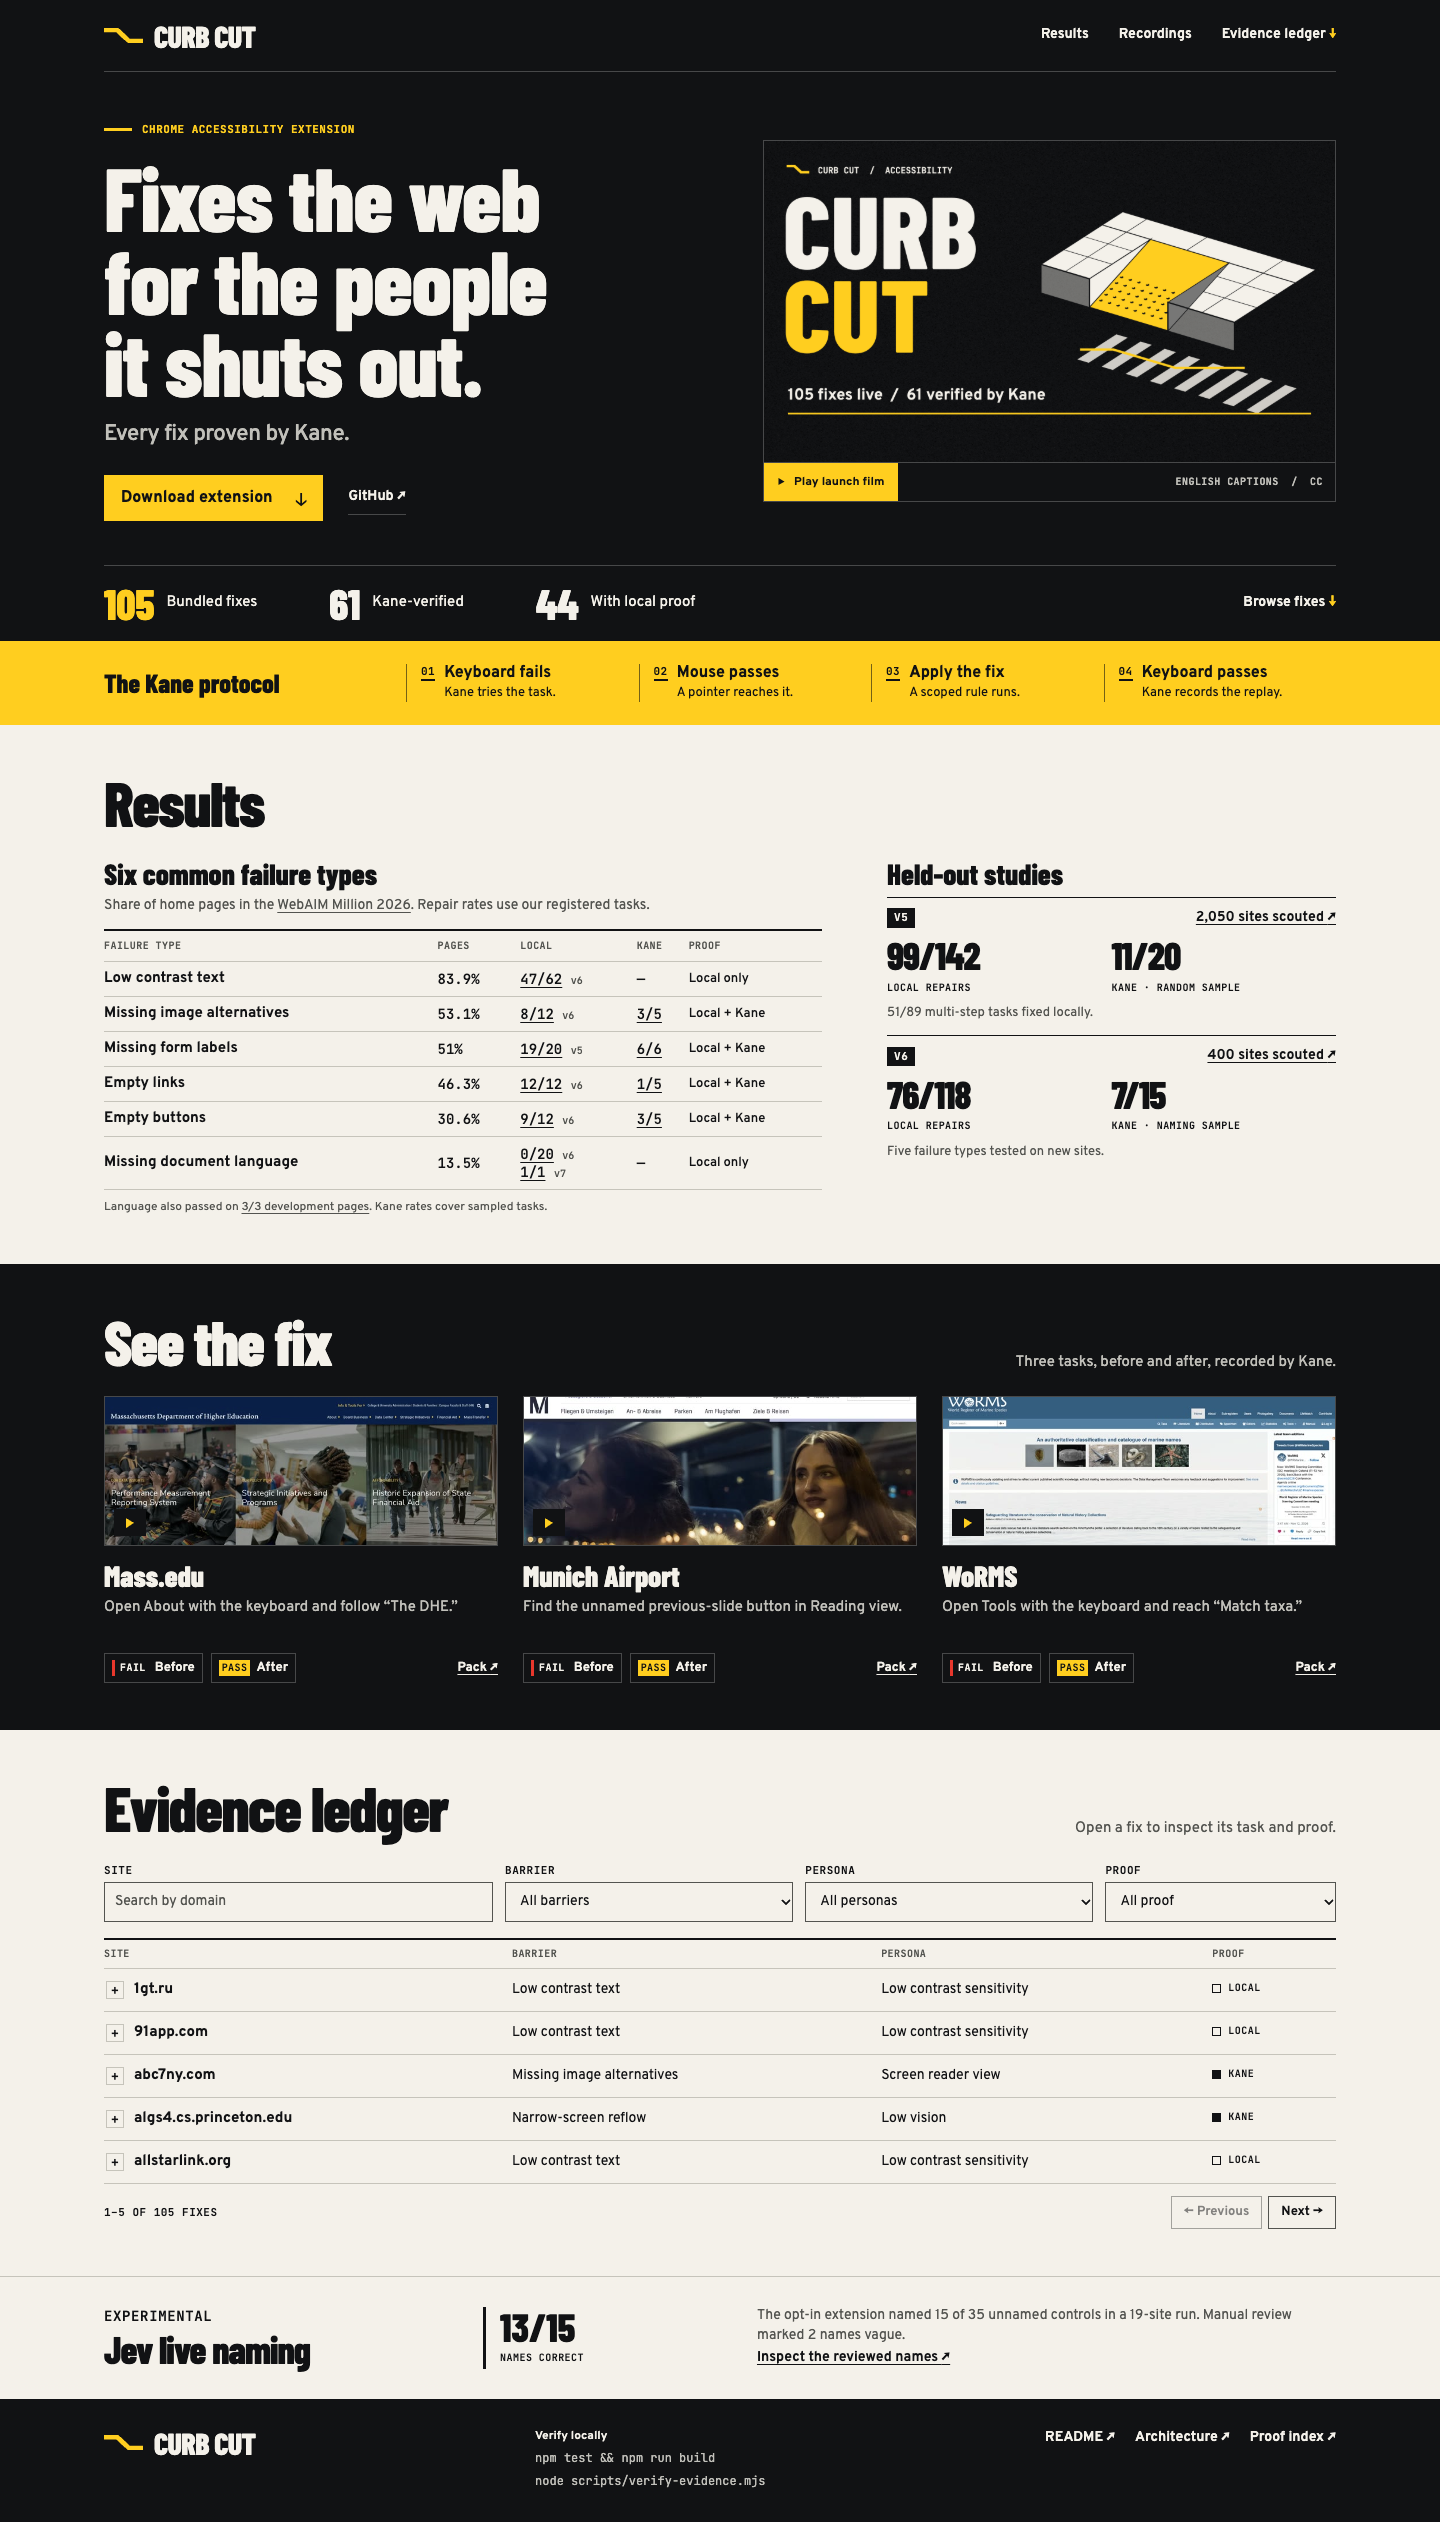
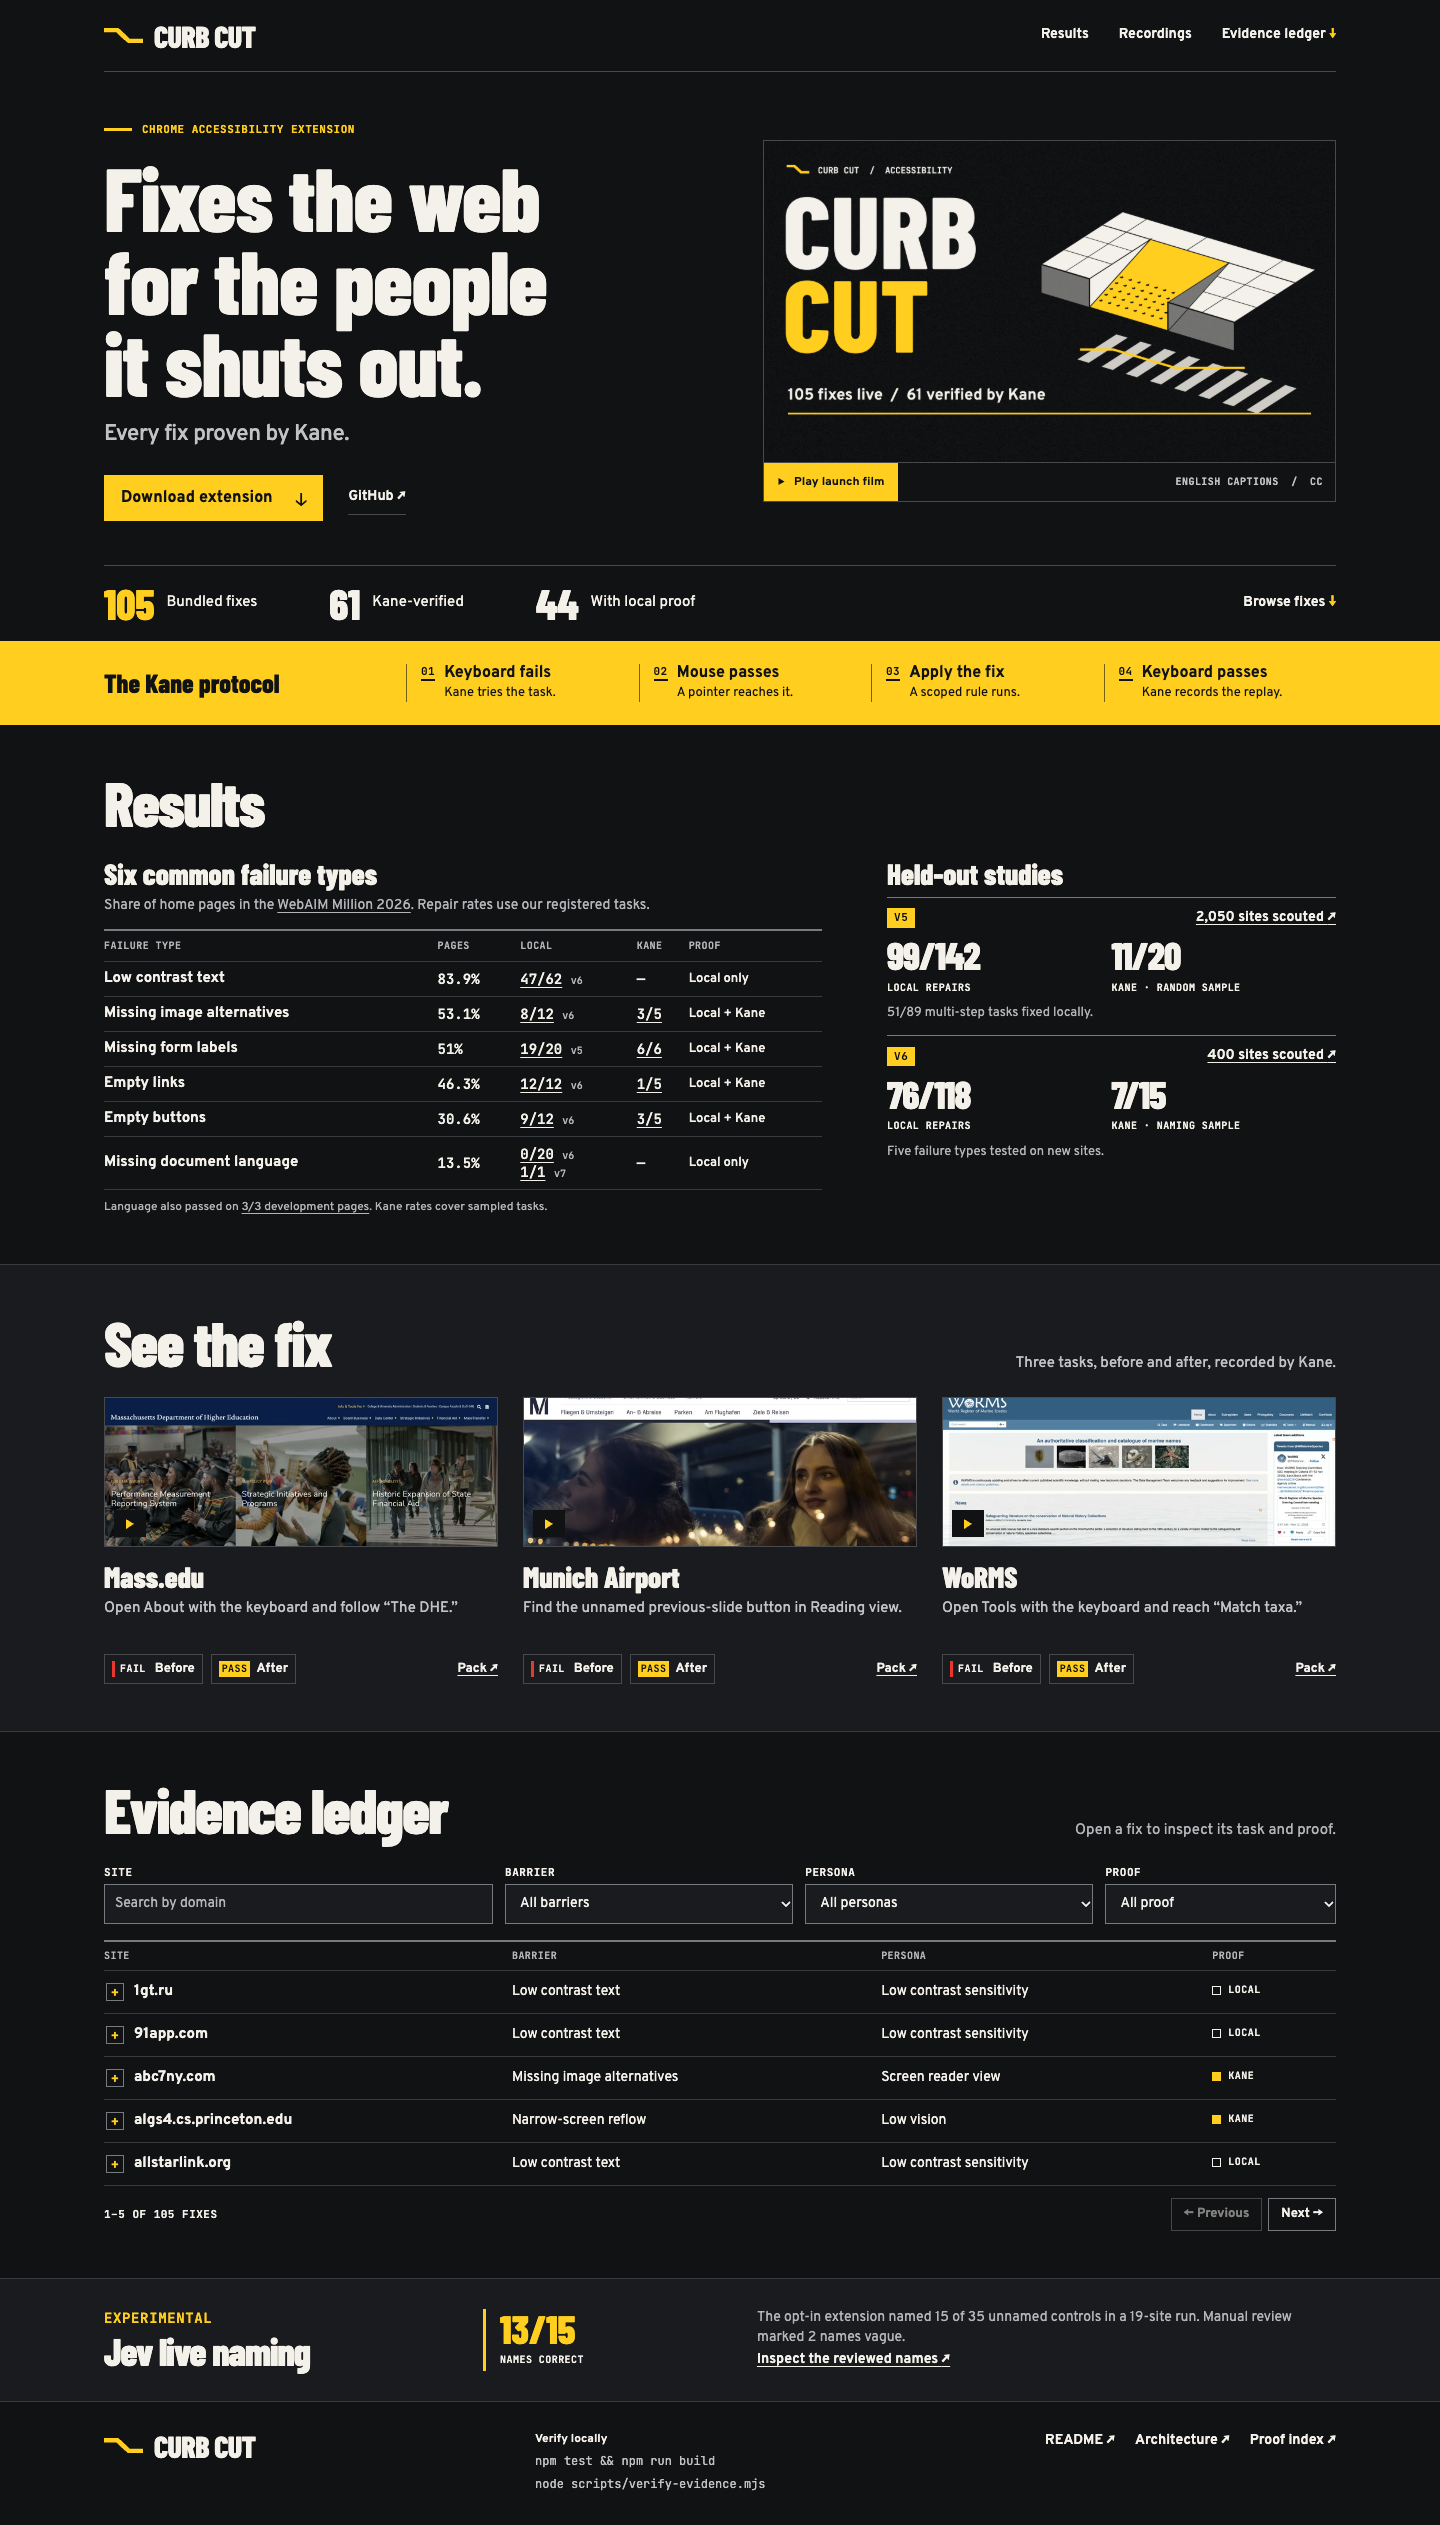
Use asphalt surfaces across the dashboard

diff --git a/site/style.css b/site/style.css
@@ -1,9 +1,9 @@
 @font-face{font-family:Barlow Condensed;src:url(assets/fonts/BarlowCondensed-ExtraBold.ttf) format("truetype");font-weight:800;font-display:swap}
 @font-face{font-family:Overpass;src:url(assets/fonts/Overpass.ttf) format("truetype");font-weight:100 900;font-display:swap}
 @font-face{font-family:JetBrains Mono;src:url(assets/fonts/JetBrainsMono.ttf) format("truetype");font-weight:100 800;font-display:swap}
-:root{--road:#111214;--yellow:#ffce1f;--paint:#f4f1ea;--red:#e8372c;--muted:#535450;--light:#c1c0ba;--line:#c6c4bb;--darkline:#474849;--display:"Barlow Condensed",Impact,sans-serif;--mono:"JetBrains Mono",monospace;--ui:Overpass,Arial,sans-serif}
+:root{color-scheme:dark;--road:#111214;--yellow:#ffce1f;--paint:#f4f1ea;--red:#e8372c;--muted:#b3b5b8;--light:#c1c2c4;--line:#373a3f;--darkline:#47494d;--control-line:#777b80;--surface:#191b1e;--display:"Barlow Condensed",Impact,sans-serif;--mono:"JetBrains Mono",monospace;--ui:Overpass,Arial,sans-serif}
 *{box-sizing:border-box}
-body{margin:0;background:var(--paint);color:var(--road);font:16px/1.45 var(--ui)}
+body{margin:0;background:var(--road);color:var(--paint);font:16px/1.45 var(--ui)}
 h1,h2,h3,p,figure,ol{margin:0}
 h1,h2,h3,.wordmark,.inventory strong,.study-numbers strong,.jev-score strong{font-family:var(--display);font-weight:800}
 a{color:inherit;text-underline-offset:.22em;text-decoration-thickness:1px}
@@ -17,7 +17,7 @@ a:focus-visible,button:focus-visible,input:focus-visible,select:focus-visible,vi
 .skip{position:absolute;top:8px;left:12px;z-index:4;padding:12px;background:var(--yellow);color:var(--road);transform:translateY(-160%)}
 .skip:focus{transform:none}
 .sr{position:absolute;width:1px;height:1px;padding:0;margin:-1px;overflow:hidden;clip-path:inset(50%);white-space:nowrap}
-.top,.hero,footer,.recordings{background:var(--road);color:var(--paint)}
+.recordings{background:var(--surface);border-block:1px solid var(--line)}
 .top-inner,.top nav,.wordmark,.hero-actions,.inventory,.inventory>div,.protocol-inner,.section-intro,.pager,.footer-inner,.player-head,.experiment-inner,.replay-actions{display:flex;align-items:center}
 .top-inner{min-height:72px;justify-content:space-between;border-bottom:1px solid var(--darkline)}
 .wordmark{font-size:30px;line-height:1;text-transform:uppercase;text-decoration:none;gap:11px;letter-spacing:-.02em}
@@ -67,7 +67,7 @@ h3{font-size:29px;line-height:1.08}
 table{border-collapse:collapse;width:100%}
 th{text-align:left}
 thead th{font-size:10px;color:var(--muted);padding:8px 4px}
-.scores,.ledger-table{border-top:2px solid var(--road)}
+.scores,.ledger-table{border-top:2px solid var(--control-line)}
 .scores th:first-child,.scores th:last-child,.scores td:last-child{padding-inline-start:0}
 .scores th,.scores td{border-bottom:1px solid var(--line)}
 .scores td{font:500 14px var(--mono);padding:8px 4px}
@@ -76,9 +76,9 @@ thead th{font-size:10px;color:var(--muted);padding:8px 4px}
 .scores td:last-child{font:500 13px var(--ui);white-space:nowrap}
 .coverage .footnote{font-size:12px;margin:9px 0 0}
 .studies h3{margin-bottom:8px}
-.studies article{border-top:1px solid var(--road);padding:10px 0 12px}
+.studies article{border-top:1px solid var(--control-line);padding:10px 0 12px}
 .studies article header{display:flex;align-items:center;justify-content:space-between;gap:7px}
-.version{background:var(--road);color:var(--paint);padding:2px 7px}
+.version{background:var(--yellow);color:var(--road);padding:2px 7px}
 .studies article header a{font-size:14px;font-weight:650}
 .study-numbers{display:grid;grid-template-columns:1fr 1fr;margin-top:8px}
 .study-numbers strong{display:block;font-size:38px;line-height:1.05;letter-spacing:-.025em}
@@ -104,20 +104,20 @@ thead th{font-size:10px;color:var(--muted);padding:8px 4px}
 .replay-actions>a:last-child{margin-left:auto;font-size:13px}
 #filters{display:grid;grid-template-columns:1.35fr 1fr 1fr .8fr;gap:12px;margin-bottom:16px}
 #filters label span{display:block;font:600 11px var(--mono);text-transform:uppercase;letter-spacing:.05em;margin-bottom:5px}
-input,select{min-width:0;width:100%;height:40px;background:transparent;border:1px solid var(--muted);border-radius:0;font-size:14px;padding:6px 10px}
+input,select{min-width:0;width:100%;height:40px;background:var(--surface);border:1px solid var(--control-line);border-radius:0;font-size:14px;padding:6px 10px}
 input::placeholder{opacity:1;color:var(--muted)}
 .ledger-table th,.ledger-table td{padding:7px 9px;border-bottom:1px solid var(--line);text-align:left}
 .ledger-table th:first-child{padding-left:0}
 .ledger-table tbody th{font:650 15px var(--ui);text-transform:none;letter-spacing:0}
 .ledger-table td{font-size:14px}
 .expand{display:inline-flex;align-items:center;gap:10px;font-weight:700;text-align:left;line-height:1.2;padding:5px 2px;overflow-wrap:anywhere}
-.toggle{flex:none;width:18px;height:18px;display:grid;place-items:center;border:1px solid var(--line);font:500 13px var(--mono)}
-.expand[aria-expanded=true] .toggle{background:var(--road);color:var(--paint);font-size:0}
+.toggle{flex:none;width:18px;height:18px;display:grid;place-items:center;color:var(--yellow);border:1px solid var(--control-line);font:500 13px var(--mono)}
+.expand[aria-expanded=true] .toggle{background:var(--yellow);color:var(--road);border-color:var(--yellow);font-size:0}
 .expand[aria-expanded=true] .toggle:before{content:"−";font-size:13px}
 .proof-kind{font-size:10px;display:inline-flex;gap:7px;align-items:center;white-space:nowrap}
 .proof-kind:before{content:"";width:7px;height:7px;border:1px solid currentColor}
-.proof-kind.kane:before{background:var(--road)}
-.ledger-table .details td{padding:14px 18px;background:#e8e5dd}
+.proof-kind.kane:before{background:var(--yellow);border-color:var(--yellow)}
+.ledger-table .details td{padding:14px 18px;background:var(--surface);border-inline-start:2px solid var(--yellow)}
 .detail-persona{font-size:12px;margin-top:3px}
 .runs,.detail-links{display:flex;flex-wrap:wrap;gap:8px 20px;margin-top:8px}
 .runs strong{text-transform:capitalize}
@@ -125,14 +125,15 @@ input::placeholder{opacity:1;color:var(--muted)}
 #clear{text-decoration:underline}
 .pager{justify-content:space-between;gap:10px;padding-top:12px}
 .pager #count{font-size:11px}
-.pager button,#close{padding:6px 12px;border:1px solid var(--muted);min-height:32px;font-size:13px}
+.pager button,#close{padding:6px 12px;border:1px solid var(--control-line);min-height:32px;font-size:13px}
 .pager button+button{margin-left:6px}
 .pager button:disabled{opacity:.5;cursor:default}
-.experiment{border-top:1px solid var(--line)}
+.experiment{background:var(--surface);border-block:1px solid var(--line)}
 .experiment-inner{gap:4%;padding-block:29px;justify-content:space-between}
 .experiment-inner>div:last-child{max-width:47%}
 .experiment h2{font-size:38px;margin-top:5px}
-.jev-score{border-left:3px solid var(--road);padding-left:14px}
+.experiment .eyebrow,.jev-score strong{color:var(--yellow)}
+.jev-score{border-left:3px solid var(--yellow);padding-left:14px}
 .jev-score strong{display:block;font-size:39px;line-height:1}
 .jev-score span{font-size:10px}
 .experiment p{font-size:14px}
